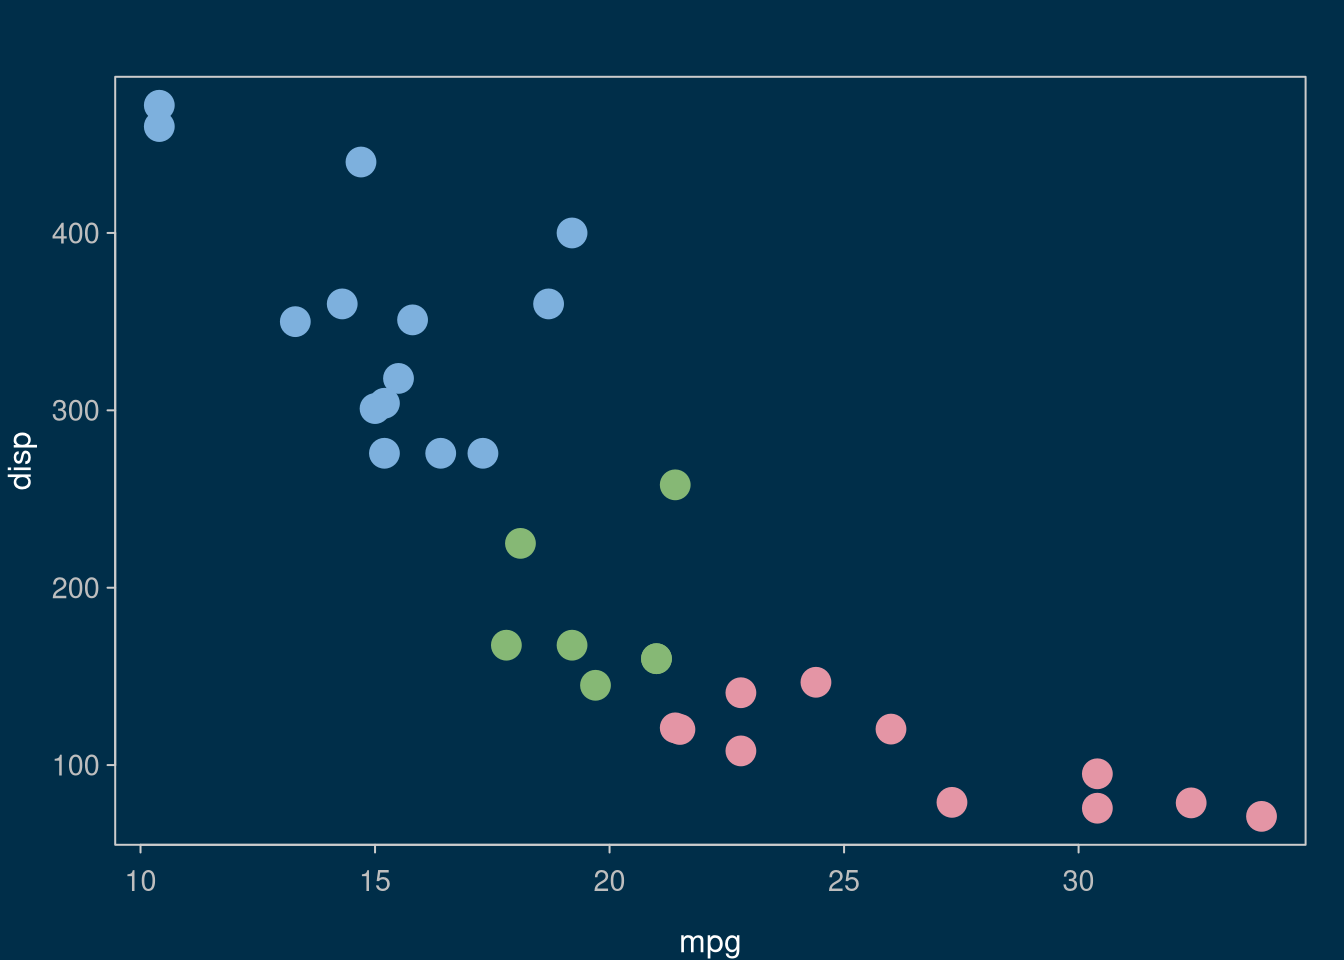
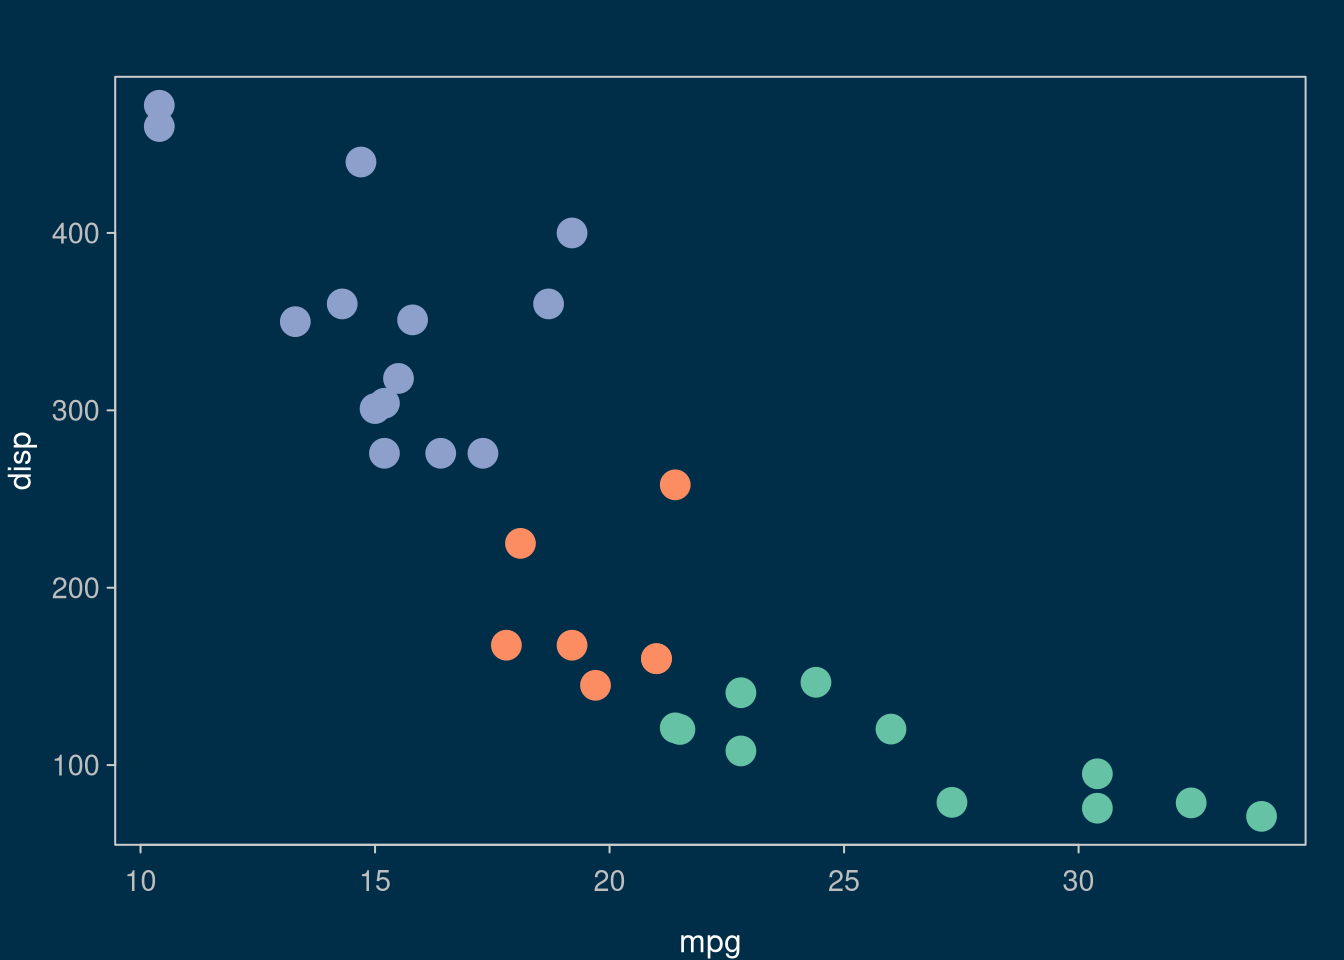
palette

diff --git a/docs/plotbb.html b/docs/plotbb.html
@@ -195,8 +195,10 @@ code span.wa { color: #60a0b0; font-weight: bold; font-style: italic; } /* Warni
 <span id="cb3-2"><a href="plotbb.html#cb3-2"></a>                 <span class="dt">y =</span> <span class="kw">rep</span>(<span class="dv">1</span><span class="op">:</span><span class="dv">12</span>, <span class="dt">each =</span> <span class="dv">10</span>),</span>
 <span id="cb3-3"><a href="plotbb.html#cb3-3"></a>                 <span class="dt">values =</span> <span class="kw">rnorm</span>(<span class="dv">120</span>, <span class="dt">mean =</span> <span class="dv">10</span>, <span class="dt">sd =</span> <span class="dv">5</span>),</span>
 <span id="cb3-4"><a href="plotbb.html#cb3-4"></a>                 <span class="dt">stringsAsFactors =</span> <span class="ot">FALSE</span>)</span>
-<span id="cb3-5"><a href="plotbb.html#cb3-5"></a><span class="kw">bbplot</span>(df, <span class="kw">bb_aes</span>(x,y, <span class="dt">col=</span>values)) <span class="op">+</span><span class="st"> </span><span class="kw">bb_tile</span>()</span></code></pre></div>
-<p><img src="pkgdocs_files/figure-html/plotbb-heatmap-1.png" width="576" /></p>
+<span id="cb3-5"><a href="plotbb.html#cb3-5"></a><span class="kw">par</span>(<span class="dt">mfrow=</span><span class="kw">c</span>(<span class="dv">1</span>,<span class="dv">2</span>))                 </span>
+<span id="cb3-6"><a href="plotbb.html#cb3-6"></a><span class="kw">bbplot</span>(df, <span class="kw">bb_aes</span>(x,y, <span class="dt">col=</span>values)) <span class="op">+</span><span class="st"> </span><span class="kw">bb_tile</span>()</span>
+<span id="cb3-7"><a href="plotbb.html#cb3-7"></a><span class="kw">bbplot</span>(df, <span class="kw">bb_aes</span>(x,y, <span class="dt">col=</span>values)) <span class="op">+</span><span class="st"> </span><span class="kw">bb_tile</span>(<span class="dt">palette=</span><span class="st">&quot;YlOrRd&quot;</span>)</span></code></pre></div>
+<p><img src="pkgdocs_files/figure-html/plotbb-heatmap-1.png" width="1152" /></p>
 </div>
 <div id="todo" class="section level3">
 <h3><span class="header-section-number">1.2.2</span> TODO</h3>
